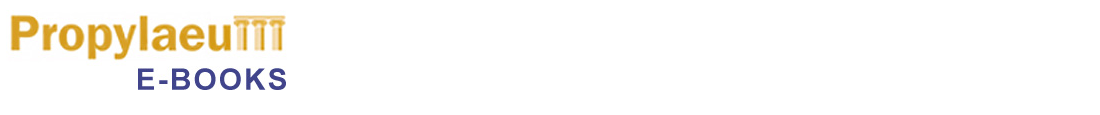
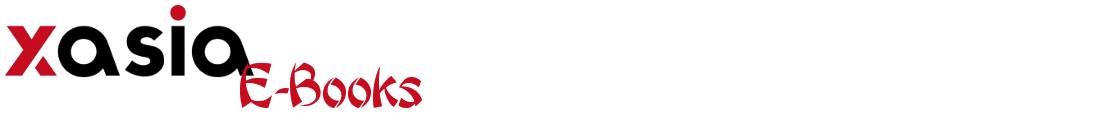
Änderungen Profil

Changed region(s): [[0.0, 0.0522, 0.4018, 0.9391]]

diff --git a/views/contact/imprint.html b/views/contact/imprint.html
@@ -11,7 +11,7 @@
 <div id="main" class="container">
               {{if session.forced_language=='de':}}
                <h3>Impressum</h3>
-               <h4>Propylaeum E-Books</h4>
+               <h4>CrossAsia E-Books</h4>
                <p><b>Postanschrift</b><br />
                Plöck 107-109<br />
                Postfach: 10 57 49<br />
@@ -24,13 +24,13 @@
                Internet: http://www.ub.uni-heidelberg.de</p>
                <p>Direktor: Dr. Veit Probst</p>
                <p>&nbsp;</p>
-               <p>Propylaeum E-Books ist Teil der Universitätsbibliothek Heidelberg. Die Universitätsbibliothek Heidelberg ist als zentrale Betriebseinheit eine organisatorische, rechtlich nicht selbständige Einheit der Universität Heidelberg, die als rechtsfähige Körperschaft des öffentlichen Rechts Diensteanbieter i. S. des § 2 Nr. 1 TMG ist und durch ihren Rektor vertreten wird. Vgl. daher zu Haftungsfragen, zum Urheberrecht und zum Datenschutz das Impressum der Universität.</p>
+               <p>CrossAsia E-Books ist Teil der Universitätsbibliothek Heidelberg. Die Universitätsbibliothek Heidelberg ist als zentrale Betriebseinheit eine organisatorische, rechtlich nicht selbständige Einheit der Universität Heidelberg, die als rechtsfähige Körperschaft des öffentlichen Rechts Diensteanbieter i. S. des § 2 Nr. 1 TMG ist und durch ihren Rektor vertreten wird. Vgl. daher zu Haftungsfragen, zum Urheberrecht und zum Datenschutz das Impressum der Universität.</p>
 
 
               {{elif session.forced_language=='en':}}
 
               <h3>Legal Notice</h3>
-               <h4>Propylaeum E-Books</h4>
+               <h4>CrossAsia E-Books</h4>
                <p><b>Postanschrift</b><br />
                Plöck 107-109<br />
                Postfach: 10 57 49<br />
@@ -43,7 +43,7 @@
                Internet: http://www.ub.uni-heidelberg.de</p>
                <p>Direktor: Dr. Veit Probst</p>
                <p>&nbsp;</p>
-               <p>Propylaeum E-Books ist Teil der Universitätsbibliothek Heidelberg. Die Universitätsbibliothek Heidelberg ist als zentrale Betriebseinheit eine organisatorische, rechtlich nicht selbständige Einheit der Universität Heidelberg, die als rechtsfähige Körperschaft des öffentlichen Rechts Diensteanbieter i. S. des § 2 Nr. 1 TMG ist und durch ihren Rektor vertreten wird. Vgl. daher zu Haftungsfragen, zum Urheberrecht und zum Datenschutz das Impressum der Universität.</p>
+               <p>CrossAsia E-Books ist Teil der Universitätsbibliothek Heidelberg. Die Universitätsbibliothek Heidelberg ist als zentrale Betriebseinheit eine organisatorische, rechtlich nicht selbständige Einheit der Universität Heidelberg, die als rechtsfähige Körperschaft des öffentlichen Rechts Diensteanbieter i. S. des § 2 Nr. 1 TMG ist und durch ihren Rektor vertreten wird. Vgl. daher zu Haftungsfragen, zum Urheberrecht und zum Datenschutz das Impressum der Universität.</p>
 
               {{pass}}
                 </p>

diff --git a/views/about_us/profile.html b/views/about_us/profile.html
@@ -21,7 +21,7 @@
             <li>Primäre Publikationsform ist die Online-Veröffentlichung in unterschiedlichen digitalen Formaten im Open Access.</li>
             <li>In Ergänzung zu den frei zugänglichen digitalen Formaten bietet Propylaeum-E-BOOKS eine kostenpflichtige Print-on-Demand-Veröffentlichung, die über den Buchhandel bezogen werden kann.</li>
             <li>Veröffentlicht werden Monographien und Sammelbände aus allen allen Fachgebieten der Altertumswissenschaften.</li>
-            <li>Die Einhaltung wissenschaftlicher Qualitätsstandards sind wichtigstes Publikationskriterium und sollte z.B. bei Dissertationen durch die Empfehlung der Gutachter oder z.B. bei wissenschaftlichen Reihen durch die Herausgeber sicher gestellt werden.</li>
+            <li>Die Einhaltung wissenschaftlicher Qualitätsstandards sind wichtigstes Publikationskriterium und sollte z.B. bei Dissertationen durch die Empfehlung der Betreuer oder z.B. bei wissenschaftlichen Reihen durch die Herausgeber sicher gestellt werden.</li>
             <li>Bei Propylaeum-E-BOOKS veröffentlichte Titel erhalten eine DOI, eine eigene ISBN bzw. ISSN bei Buchreihen und sind somit dauerhaft referenzierbar.</li>
         </ul>
         
@@ -35,7 +35,7 @@
             <li>Primäre Publikationsform ist die Online-Veröffentlichung in unterschiedlichen digitalen Formaten im Open Access.</li>
             <li>In Ergänzung zu den frei zugänglichen digitalen Formaten bietet Propylaeum-E-BOOKS eine kostenpflichtige Print-on-Demand-Veröffentlichung, die über den Buchhandel bezogen werden kann.</li>
             <li>Veröffentlicht werden Monographien und Sammelbände aus allen allen Fachgebieten der Altertumswissenschaften.</li>
-            <li>Die Einhaltung wissenschaftlicher Qualitätsstandards sind wichtigstes Publikationskriterium und sollte z.B. bei Dissertationen durch die Empfehlung der Gutachter oder z.B. bei wissenschaftlichen Reihen durch die Herausgeber sicher gestellt werden.</li>
+            <li>Die Einhaltung wissenschaftlicher Qualitätsstandards sind wichtigstes Publikationskriterium und sollte z.B. bei Dissertationen durch die Empfehlung der Betreuer oder z.B. bei wissenschaftlichen Reihen durch die Herausgeber sicher gestellt werden.</li>
             <li>Bei Propylaeum-E-BOOKS veröffentlichte Titel erhalten eine DOI, eine eigene ISBN bzw. ISSN bei Buchreihen und sind somit dauerhaft referenzierbar.</li>
         </ul>
  

diff --git a/views/home/index.html b/views/home/index.html
@@ -242,10 +242,15 @@
 
                         <div class="box">
                         <div class="box-gray aligncenter">
-                        <h4>Propylaeum E-Books</h4>
-                        <p class="boxText">ist die Open-Access-Publikationsplattform von Proplyaeum für wissenschaftliche E-Books aus den Altertumswissenschaften.<br>
-Wir unterstützen Open Access als Publikationsmodell für die Verbreitung von Forschungsergebnissen und veröffentlichen sowohl Erstpublikationen ("goldener Weg") als auch Zweitveröffentlichungen ("grüner Weg"). Das kostenfreie Angebot richtet sich an Altertumswissenschaftlerinne und Altertumswissenschaften weltweit.<br>
+                        <h4>CrossAsia E-Books</h4>
+                        <p class="boxText">
+{{if session.forced_language =='de': }}
+
+ist die Open-Access-Publikationsplattform von CrossAsia für wissenschaftliche E-Books aus dem Bereich der Asienwissenschaften. Wir unterstützen Open Access als Publikationsmodell für die Verbreitung von Forschungsergebnissen und veröffentlichen sowohl Erstpublikationen („goldener Weg“) als auch Zweitveröffentlichungen („grüner Weg“). Das kostenfreie Angebot richtet sich an Asienwissenschaftlerinnen und Asienwissenschaftler weltweit.
 Zum Einsatz kommt die Open-Source-Software OMP des Public Knowledge Project (PKP).
+{{elif session.forced_language =='en': }}
+is the Open Access publication platform of CrossAsia designed for publishing academic E-Books in Asian Studies. We support the Open Access publishing model for distributing research results and publish therefore primary publications (“gold”) as well as secondary publications (“green”). This offer is free of charges and open for scholars worldwide in the field of Asian Studies. For managing the editorial workflow we use the Open Source Software OMP developed by the Public Knowledge Project (PKP).
+{{pass}}
                         </p>
                         </div>
 

diff --git a/views/layout.html b/views/layout.html
@@ -89,11 +89,10 @@
 
     </div>
        <div class="container">
-  <h1>Cross Asia</h1>
-       <!--div id="headerLogo" class="col-lg-12 print-url">
+       <div id="headerLogo" class="col-lg-12 print-url">
          <img id="heiup-logo" class="screen" src="{{=URL(myconf.take('web.application'),'static','images/press/schriftzug_header.png')}}" />
          <img id="heiup-logo-print" class="print" src="{{=URL(myconf.take('web.application'),'static','images/press/schriftzug_header_print.png')}}" />
-       </div--> 
+       </div> 
        </div>
        
     <div class="container">
@@ -231,7 +230,7 @@
 
                         <ul class="slides">
                             <li>
-                                <img id="hup-logo" src="{{=URL(myconf.take('web.application'),'static','images/press/home/slideshow/01_nicolini.jpg')}}" />
+                                <img id="hup-logo" src="{{=URL(myconf.take('web.application'),'static','images/press/home/slideshow/paisley.png')}}" />
                             </li>
 
                         </ul>
@@ -293,7 +292,7 @@
 
 
                         <div class="col-lg-3">
-                           <div id="footer_logo_propylaeum" class="widget"><a href="https://www.propylaeum.de" title="Homepage Propylaeum"><img alt="Logo - Propylaeum" src="{{=URL(myconf.take('web.application'),'static','/images/press/footer_logo_propylaeum.png')}}" /></a></div>
+                           <div id="footer_logo_xasia" class="widget"><a href="http://crossasia.org/" title="Homepage CrossAsia"><img alt="Logo - CrossAsia" src="{{=URL(myconf.take('web.application'),'static','/images/press/footer_logoXasia.png')}}" /></a></div>
                         </div>
 
                         <div class="col-lg-3">

diff --git a/views/contact/index.html b/views/contact/index.html
@@ -1,6 +1,7 @@
 {{extend 'layout.html'}}
 <div class="container">
     <div class="row">
+      <div id="main" class="container">
         <div class="col-lg-12" style="height: 500px">
             <h3>            {{=T('Contact')}}</h3>
 
@@ -25,7 +26,7 @@
                 {{pass}}
                 </p>
 
-
+           </div>
         </div>
     </div>
 </div>
